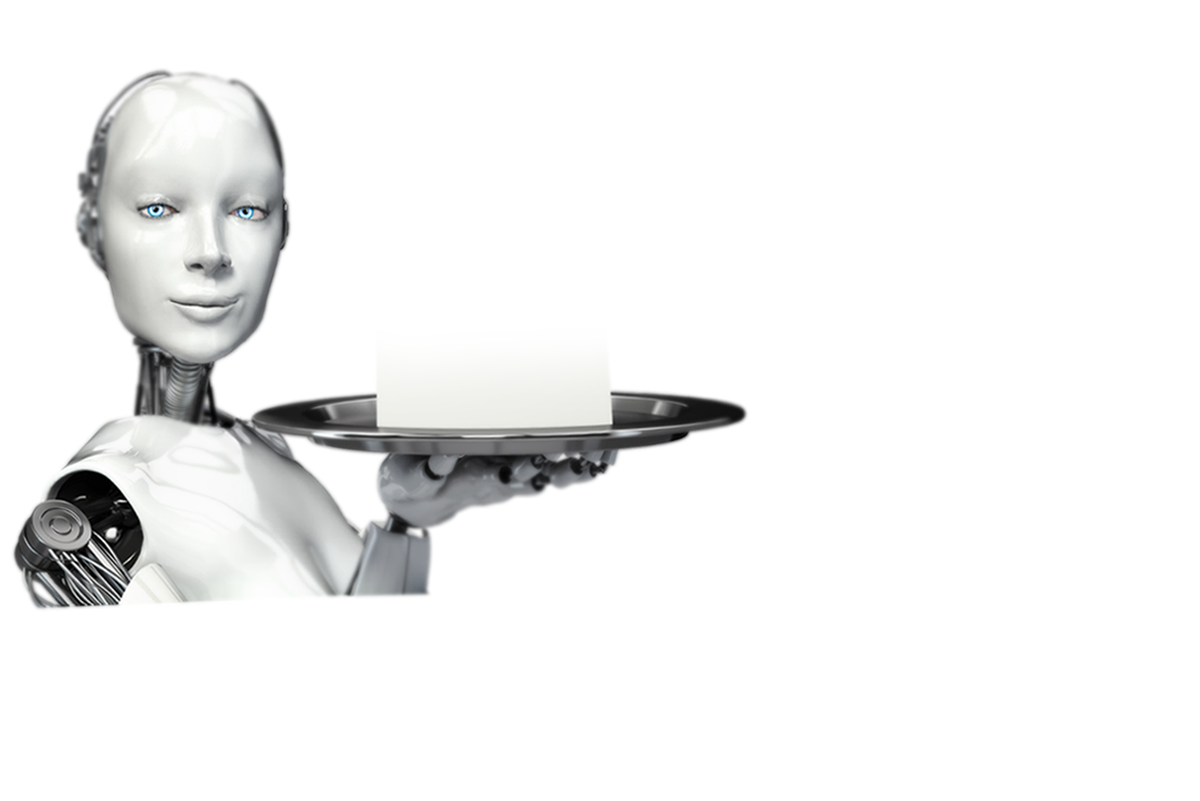
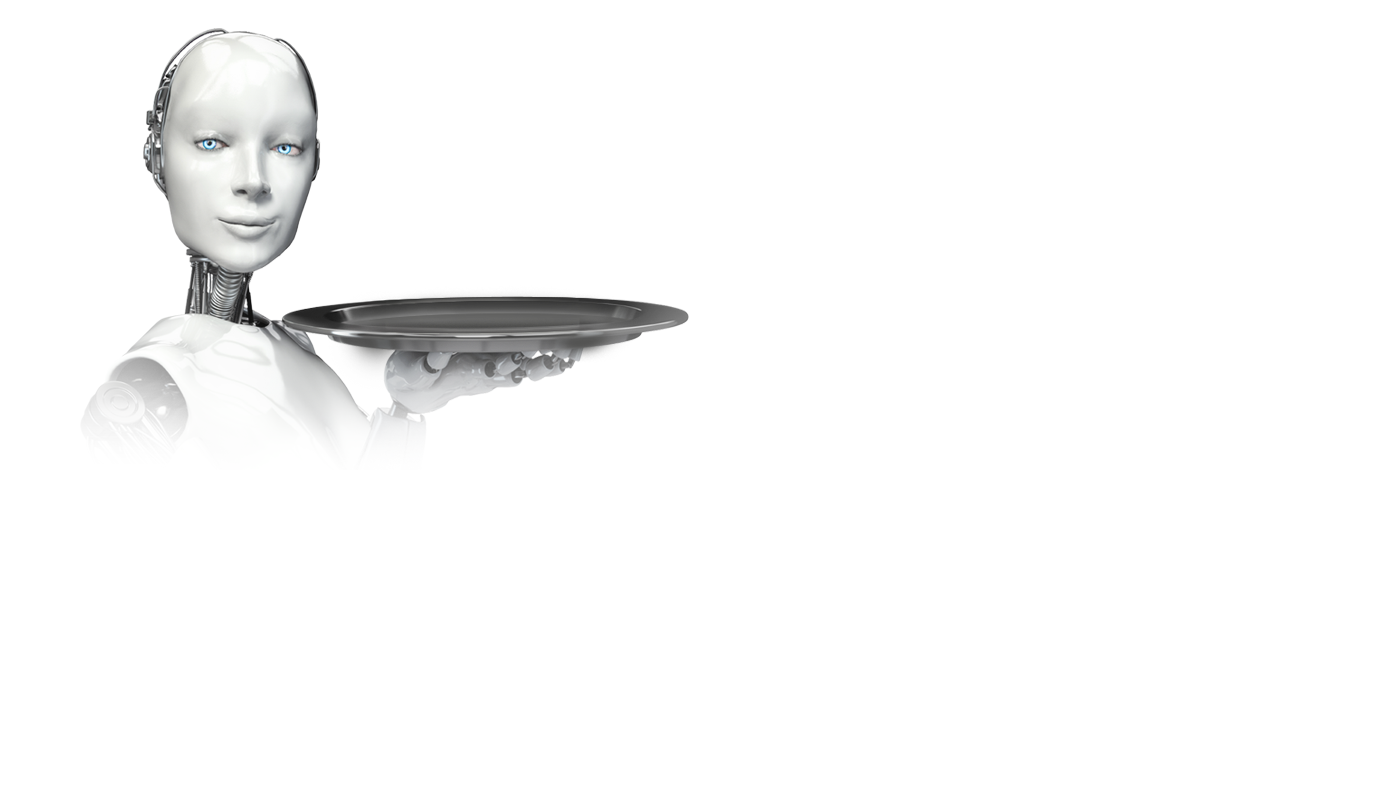
圖檔變更與壓縮

Changed region(s): [[0.0, 0.0312, 0.6475, 0.7803]]

diff --git a/templates/project/source/sass/page/_home.scss b/templates/project/source/sass/page/_home.scss
@@ -524,7 +524,7 @@ section {
 	background-position: left top;
 }
 .slide-2__bg{
-	// background-image: url(#{$imagesPath}/point-finger.png);
+	//background-image: url(#{$imagesPath}/point-finger.png);
 	background-image: url(#{$imagesPath}/thief.png);
 	@extend %no-repeat;
 }
@@ -533,8 +533,8 @@ section {
 	@extend %no-repeat;
 }
 .slide-4__bg{
-	//background-image: url(#{$imagesPath}/robot.png);
-	background-image: url(#{$imagesPath}/woman-muscled.png);
+	background-image: url(#{$imagesPath}/robot.png);
+	//background-image: url(#{$imagesPath}/woman-muscled.png);
 	@extend %no-repeat;
 }
 .text-a,.text-b,.text-c,.text-d {
@@ -836,7 +836,7 @@ section {
 	top: 0;
 	left: 0;
 	.current & {
-		@include animation(icon1 3s linear infinite);
+		@include animation(icon1 6s linear infinite);
 	}
 }
 .icon-002 {
@@ -844,7 +844,7 @@ section {
 	top: 130px;
 	left: 0;
 	.current & {
-		@include animation(icon2 3s linear infinite);
+		@include animation(icon2 6s linear infinite);
 	}
 }
 .icon-003 {
@@ -852,7 +852,7 @@ section {
 	top: 260px;
 	left: 0;
 	.current & {
-		@include animation(icon3 3s linear infinite);
+		@include animation(icon3 6s linear infinite);
 	}
 }
 .icon-004 {
@@ -860,7 +860,7 @@ section {
 	top: 0;
 	right: 0;
 	.current & {
-		@include animation(icon4 3s linear infinite);
+		@include animation(icon4 6s linear infinite);
 	}
 }
 .icon-005 {
@@ -868,7 +868,7 @@ section {
 	top: 130px;
 	right: 0;
 	.current & {
-		@include animation(icon5 3s linear infinite);
+		@include animation(icon5 6s linear infinite);
 	}
 }
 .icon-006 {
@@ -876,7 +876,7 @@ section {
 	top: 260px;
 	right: 0;
 	.current & {
-		@include animation(icon6 3s linear infinite);
+		@include animation(icon6 6s linear infinite);
 	}
 }
 .icon-wifi {
@@ -933,32 +933,38 @@ $centerY: 130px;
 
 @include keyframes(icon1) {
 	0% { opacity: 0; @include left-center; @include transform(rotate(-720deg));}
-	85% { top: 0; left: 0; opacity: .9;@include transform(rotate(0deg));}
+	35% { top: 0; left: 0; opacity: .9;@include transform(rotate(0deg));}
+	95% { top: 0; left: 0; opacity: .9;@include transform(rotate(0deg));}
 	100% { opacity: 0;@include transform (scale(1.5));}
 }
 @include keyframes(icon2) {
 	0% { opacity: 0; @include left-center; @include transform(rotate(-720deg));}
-	85% { top: 130px; left: 0; opacity: .9;@include transform(rotate(0deg));}
+	35% { top: 130px; left: 0; opacity: .9;@include transform(rotate(0deg));}
+	95% { top: 130px; left: 0; opacity: .9;@include transform(rotate(0deg));}
 	100% { opacity: 0;@include transform (scale(1.5));}
 }
 @include keyframes(icon3) {
 	0% { opacity: 0; @include left-center; @include transform(rotate(-720deg));}
-	85% { top: 260px; left: 0;opacity: .75;@include transform(rotate(0deg));}
+	35% { top: 260px; left: 0; opacity: .9;@include transform(rotate(0deg));}
+	95% { top: 260px; left: 0;opacity: .9;@include transform(rotate(0deg));}
 	100% { opacity: 0;@include transform (scale(1.5));}
 }
 @include keyframes(icon4) {
 	0% { opacity: 0; @include right-center; @include transform(rotate(-720deg));}
-	85% { top: 0; right: 0; opacity: .9;@include transform(rotate(0deg));}
+	35% { top: 0; right: 0; opacity: .9;@include transform(rotate(0deg));}
+	95% {top: 0; right: 0; opacity: .9;@include transform(rotate(0deg));}
 	100% { opacity: 0;@include transform (scale(1.5));}
 }
 @include keyframes(icon5) {
 	0% { opacity: 0; @include right-center; @include transform(rotate(-720deg));}
-	85% { top: 130px; right: 0; opacity: .9;@include transform(rotate(0deg));}
+	35% { top: 130px; right: 0; opacity: .9;@include transform(rotate(0deg));}
+	95% { top: 130px; right: 0; opacity: .9;@include transform(rotate(0deg));}
 	100% { opacity: 0;@include transform (scale(1.5));}
 }
 @include keyframes(icon6) {
 	0% { opacity: 0; @include right-center; @include transform(rotate(-720deg));}
-	85% { top: 260px; right: 0; opacity: .9;@include transform(rotate(0deg));}
+	35% { top: 260px; right: 0; opacity: .9;@include transform(rotate(0deg));}
+	95% { top: 260px; right: 0; opacity: .9;@include transform(rotate(0deg));}
 	100% { opacity: 0;@include transform (scale(1.5));}
 }
 @include keyframes(fadeInOut) {
